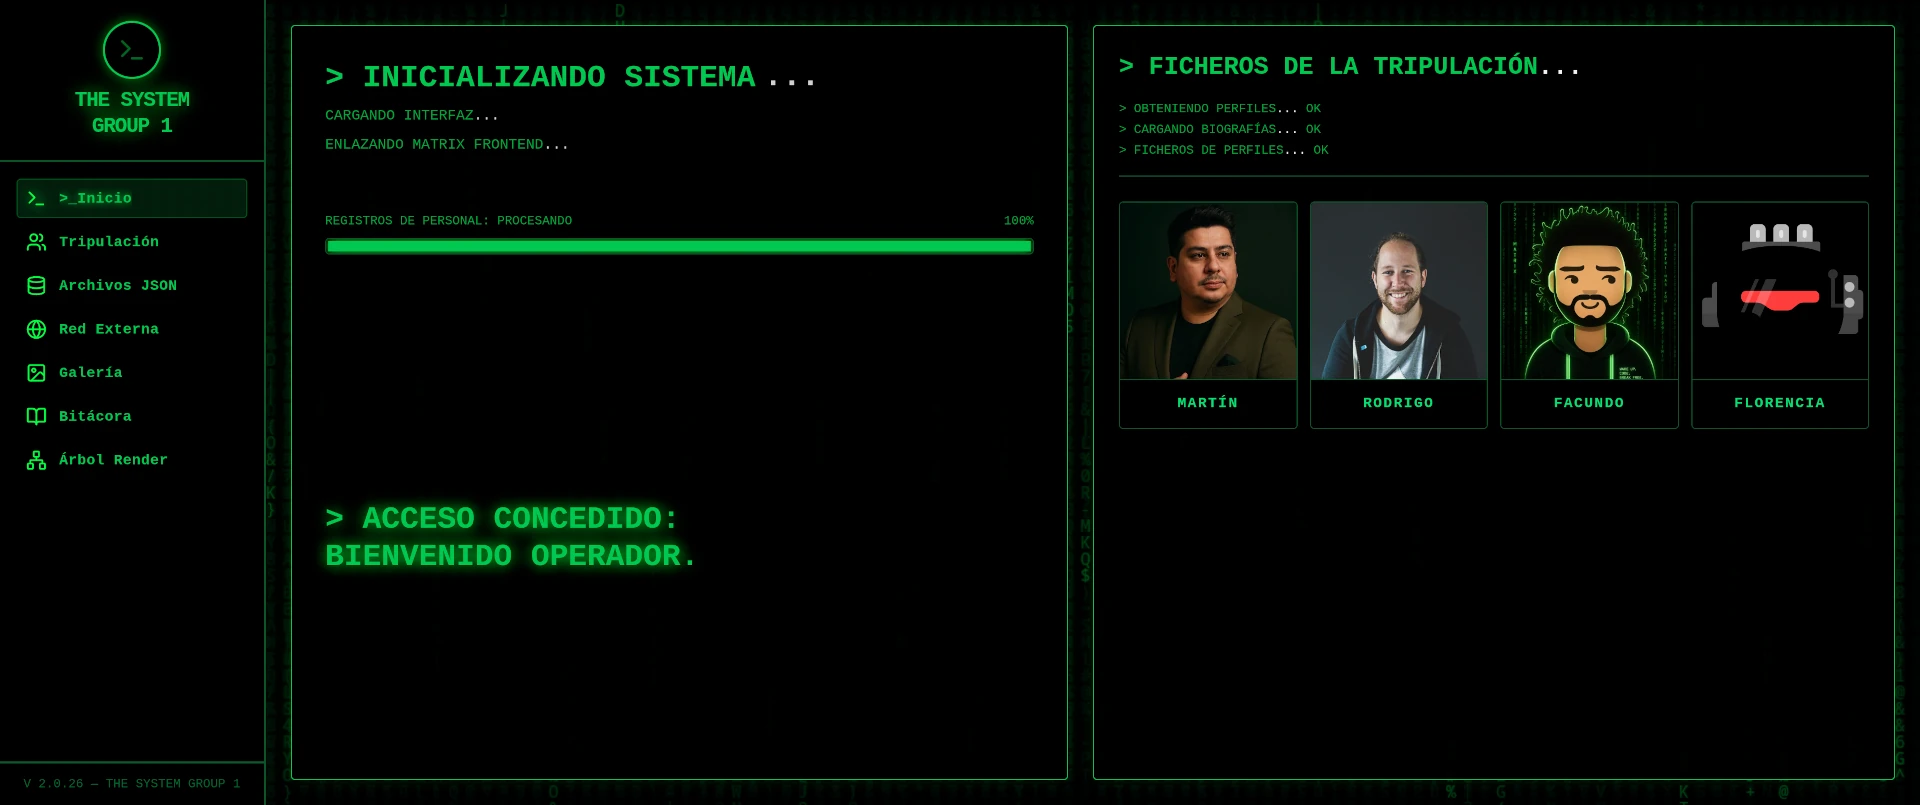
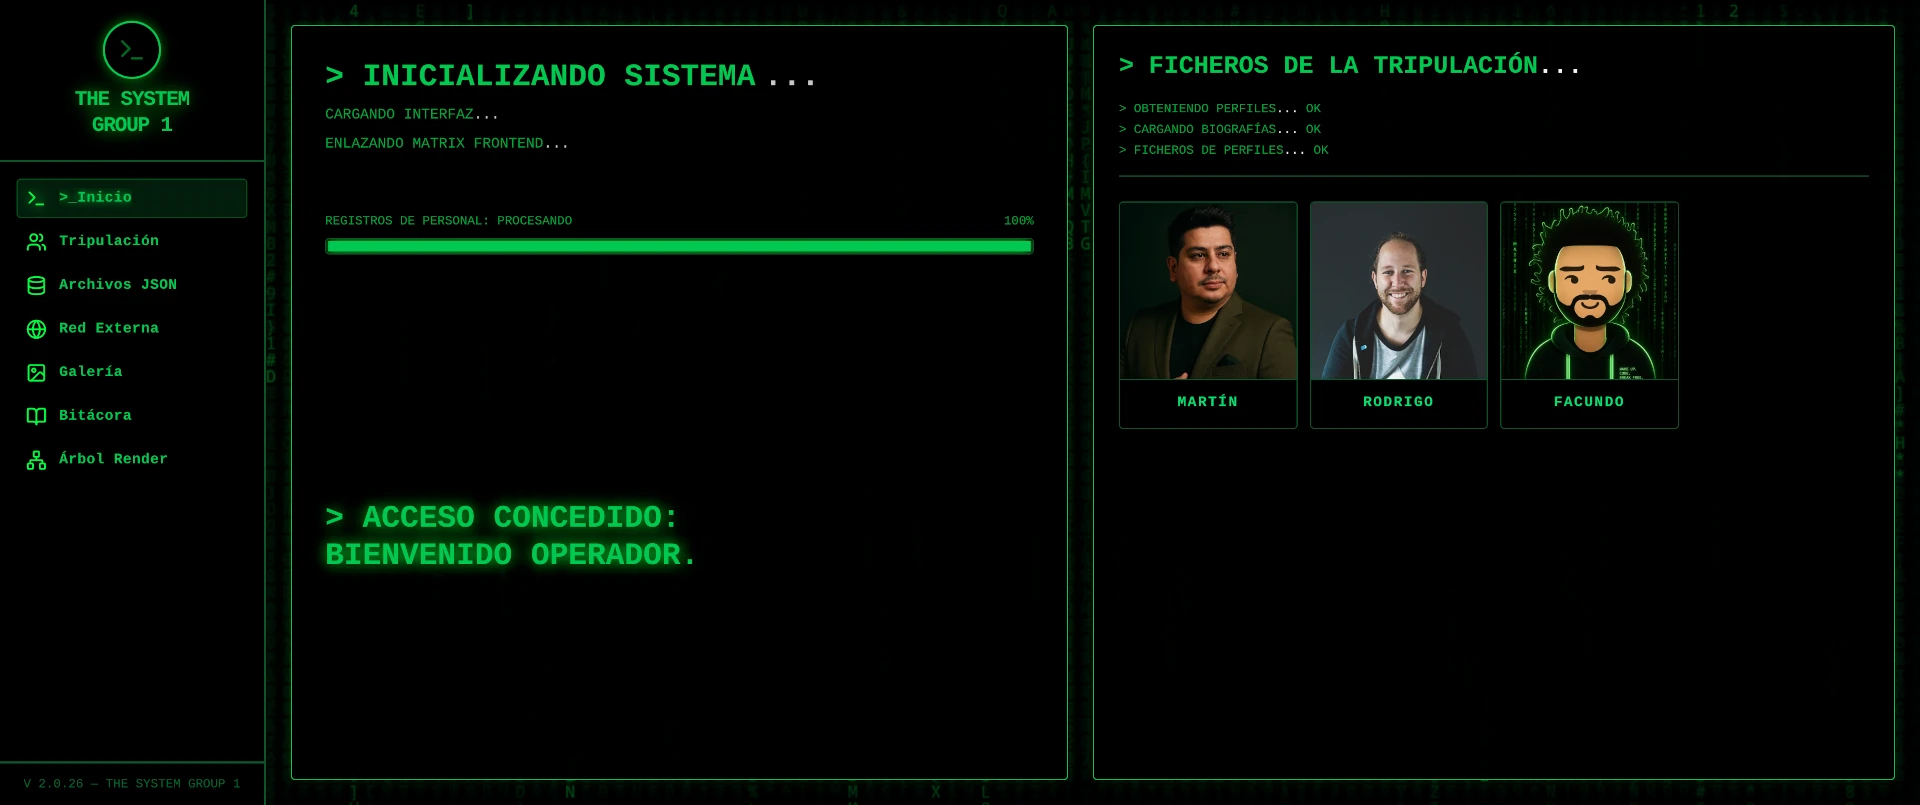
Eliminado perfil no utilizado + actualizado README

diff --git a/src/pages/Tripulante.jsx b/src/pages/Tripulante.jsx
@@ -3,7 +3,6 @@ import ErrorMessage from '../components/ErrorMessage'
 import PerfilMartin from '../profiles/PerfilMartin'
 import PerfilRodrigo from '../profiles/PerfilRodrigo'
 import PerfilFacundo from '../profiles/PerfilFacundo'
-import PerfilFlorencia from '../profiles/PerfilFlorencia'
 
 const Tripulante = ({ tripulantes }) => {
 	const { nombre } = useParams()
@@ -22,8 +21,6 @@ const Tripulante = ({ tripulantes }) => {
 			return <PerfilRodrigo tripulante={tripulante} />
 		case "facundo":
 			return <PerfilFacundo tripulante={tripulante} />
-		case "florencia":
-			return <PerfilFlorencia tripulante={tripulante} />
 		default:
 			return <ErrorMessage text="PERFIL NO IMPLEMENTADO" />
 	}

diff --git a/src/pages/ArbolRender.jsx b/src/pages/ArbolRender.jsx
@@ -115,8 +115,6 @@ const ArbolRender = () => {
 															&lt;PerfilRodrigo
 															/&gt; |
 															&lt;PerfilFacundo
-															/&gt; |
-															&lt;PerfilFlorencia
 															/&gt;
 															<ul className="pl-8 mt-1 space-y-1 border-l-2 border-green-900/50 text-green-800 text-[10px]">
 																<li className="relative before:content-[''] before:absolute before:w-4 before:h-px before:bg-green-900/50 before:-left-8 before:top-1.5">

diff --git a/README.md b/README.md
@@ -15,7 +15,6 @@ La aplicación migra completamente la estructura del TP1 (HTML, CSS y JS Vanilla
 - **Martín** - [GitHub](https://github.com/fguzman3026)
 - **Rodrigo Zocco** - [GitHub](https://github.com/RodrigoZocco)
 - **Facundo** - [GitHub](https://github.com/fazcue)
-- **Florencia** - [GitHub](https://github.com/juliomorales-cell)
 
 ---
 
@@ -130,6 +129,9 @@ El diseño visual está completamente inspirado en la estética cyberpunk de "Th
 
 ![Dashboard Home](public/screenshots/homepage.webp)
 
+### Tripulación
+![Tripulación](public/screenshots/tripulacion.webp)
+
 ### Perfiles individuales
 
 ![Perfil Individual Martín](public/screenshots/perfil_martin.webp)
@@ -199,7 +201,7 @@ Durante el desarrollo de esta entrega se utilizaron las siguientes herramientas 
 - **Auditoría de requisitos**: Se solicitó a la IA una revisión exhaustiva del repositorio frente a la rúbrica del TP2, obteniendo una matriz de cumplimiento detallada que guió las correcciones finales.
 - **Debugging de estilos**: La IA ayudó a detectar problemas visuales (barras de progreso invisibles, íconos con color incorrecto, padding insuficiente) y propuso soluciones con estilos inline garantizados.
 - **Refactorización de componentes**: Se recibieron sugerencias para modularizar `PerfilBase` con subcomponentes (`BarrasProgreso`, `CarruselProyectos`, `RedesSociales`), lo que permitió reutilizar código entre los cuatro perfiles.
-- **Generación de textos**: Las biografías de los tripulantes (Martín, Rodrigo, Facundo, Florencia) fueron redactadas con asistencia de IA, luego revisadas y ajustadas por el equipo.
+- **Generación de textos**: Las biografías de los tripulantes (Martín, Rodrigo, Facundo) fueron redactadas con asistencia de IA, luego revisadas y ajustadas por el equipo.
 
 ### Imágenes Generadas con IA
 
